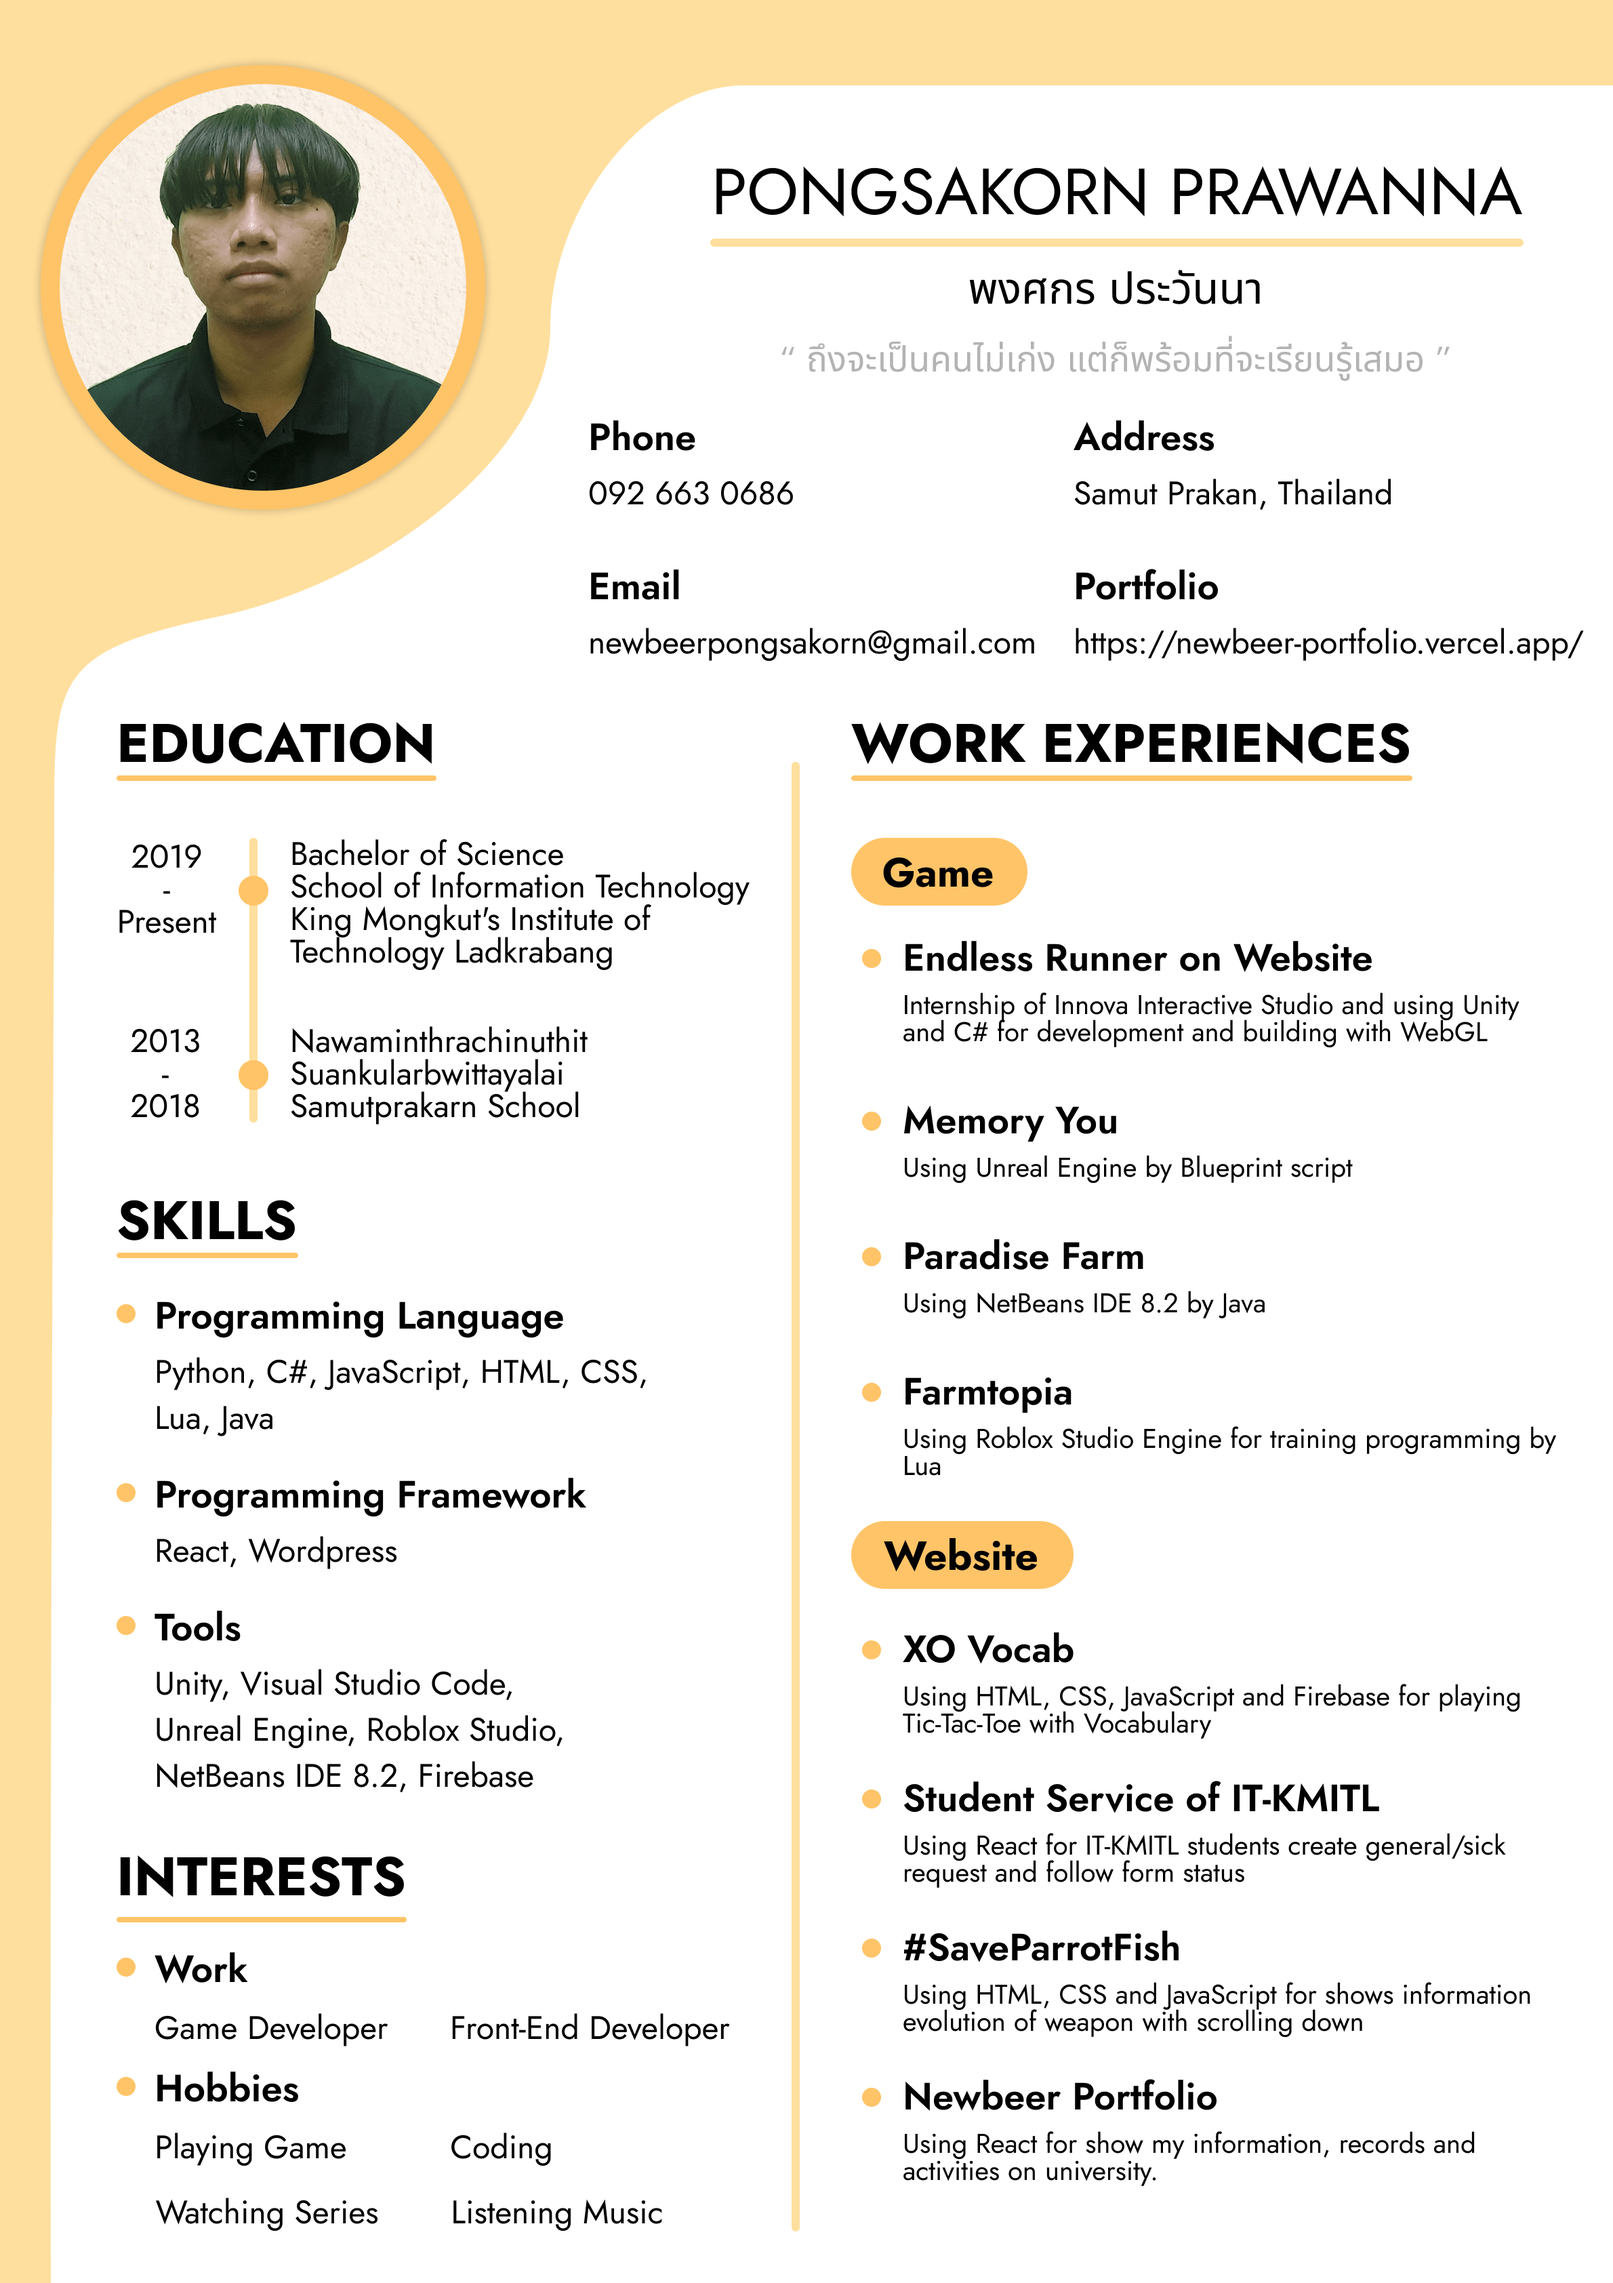
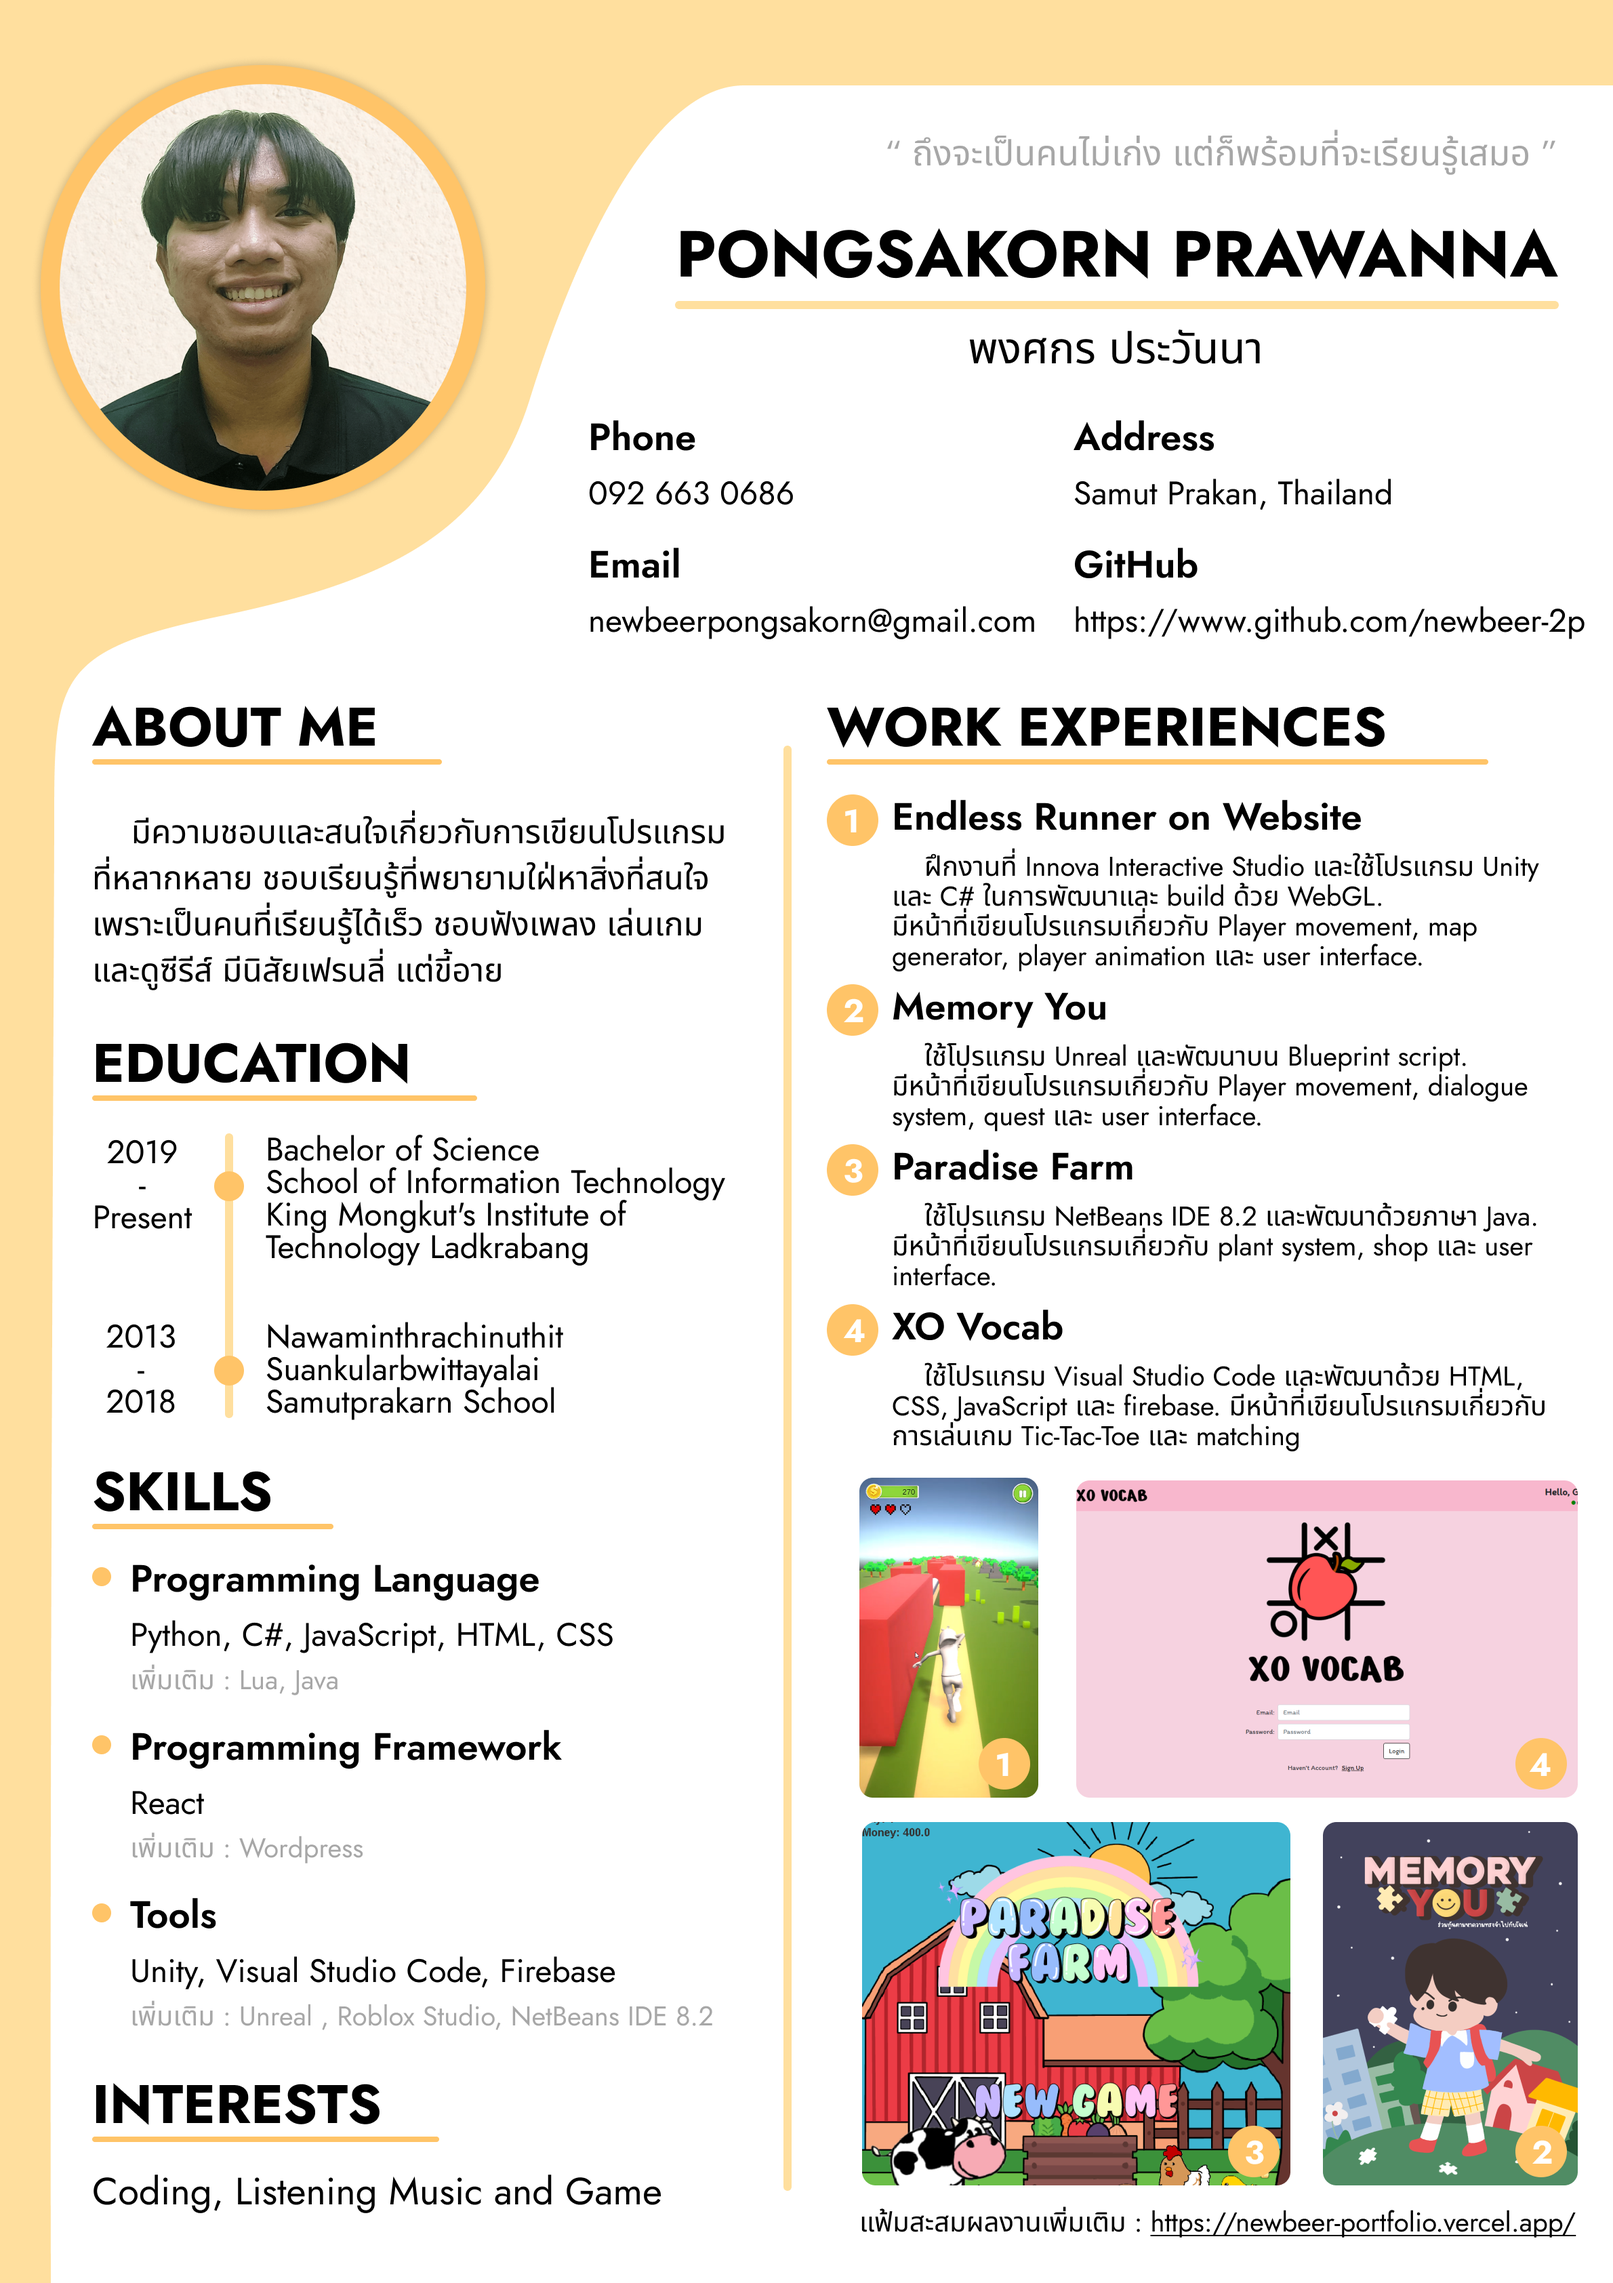
Update Resume, information, records

diff --git a/src/components/MePage/Infomation.js b/src/components/MePage/Infomation.js
@@ -89,6 +89,10 @@ export const Information = () => {
                         <div>{data.info.contact.email}</div>
                     </div>
                     <div className="info-content">
+                        <div className="title-sm">GitHub</div>
+                        <div><a href={data.info.github} target="_blank" rel="noreferrer">{data.info.github}</a></div>
+                    </div>
+                    <div className="info-content">
                         <div className="title-sm">ที่อยู่</div>
                         <div>{data.info.contact.address.houseNo} หมู่ {data.info.contact.address.moo} ซอย{data.info.contact.address.soi}</div>
                         <div>ถนน{data.info.contact.address.road} ตำบล{data.info.contact.address.subDistrict}</div>

diff --git a/src/components/MePage/Skills.js b/src/components/MePage/Skills.js
@@ -25,7 +25,7 @@ export const Skills = () => {
                     </div>
                 </div>
                 <div className="content-skill col-12 col-xl-6">
-                    <div className="title-sm">โปรแกรม</div>
+                    <div className="title-sm">โปรแกรมและเครื่องมืออื่น ๆ</div>
                     {
                         data.skill.programs.map((pro, index) => (
                             <div key={index}>

diff --git a/src/components/RecordPage/RecordContent.js b/src/components/RecordPage/RecordContent.js
@@ -87,6 +87,7 @@ export const RecordContent = ( {content} ) => {
                     <span>{content.mainRoles.join(", ")}</span> 
                 </div>
                 {link}
+                {content.github !== "" ? <div><span className="rec-content-title">GitHub : </span><a href={`${content.github}`} target="_blank" rel="noreferrer">{content.github}</a></div> : ""}
                 {content.demo !== "" ? demo : ""}
             </div>
         </div>
